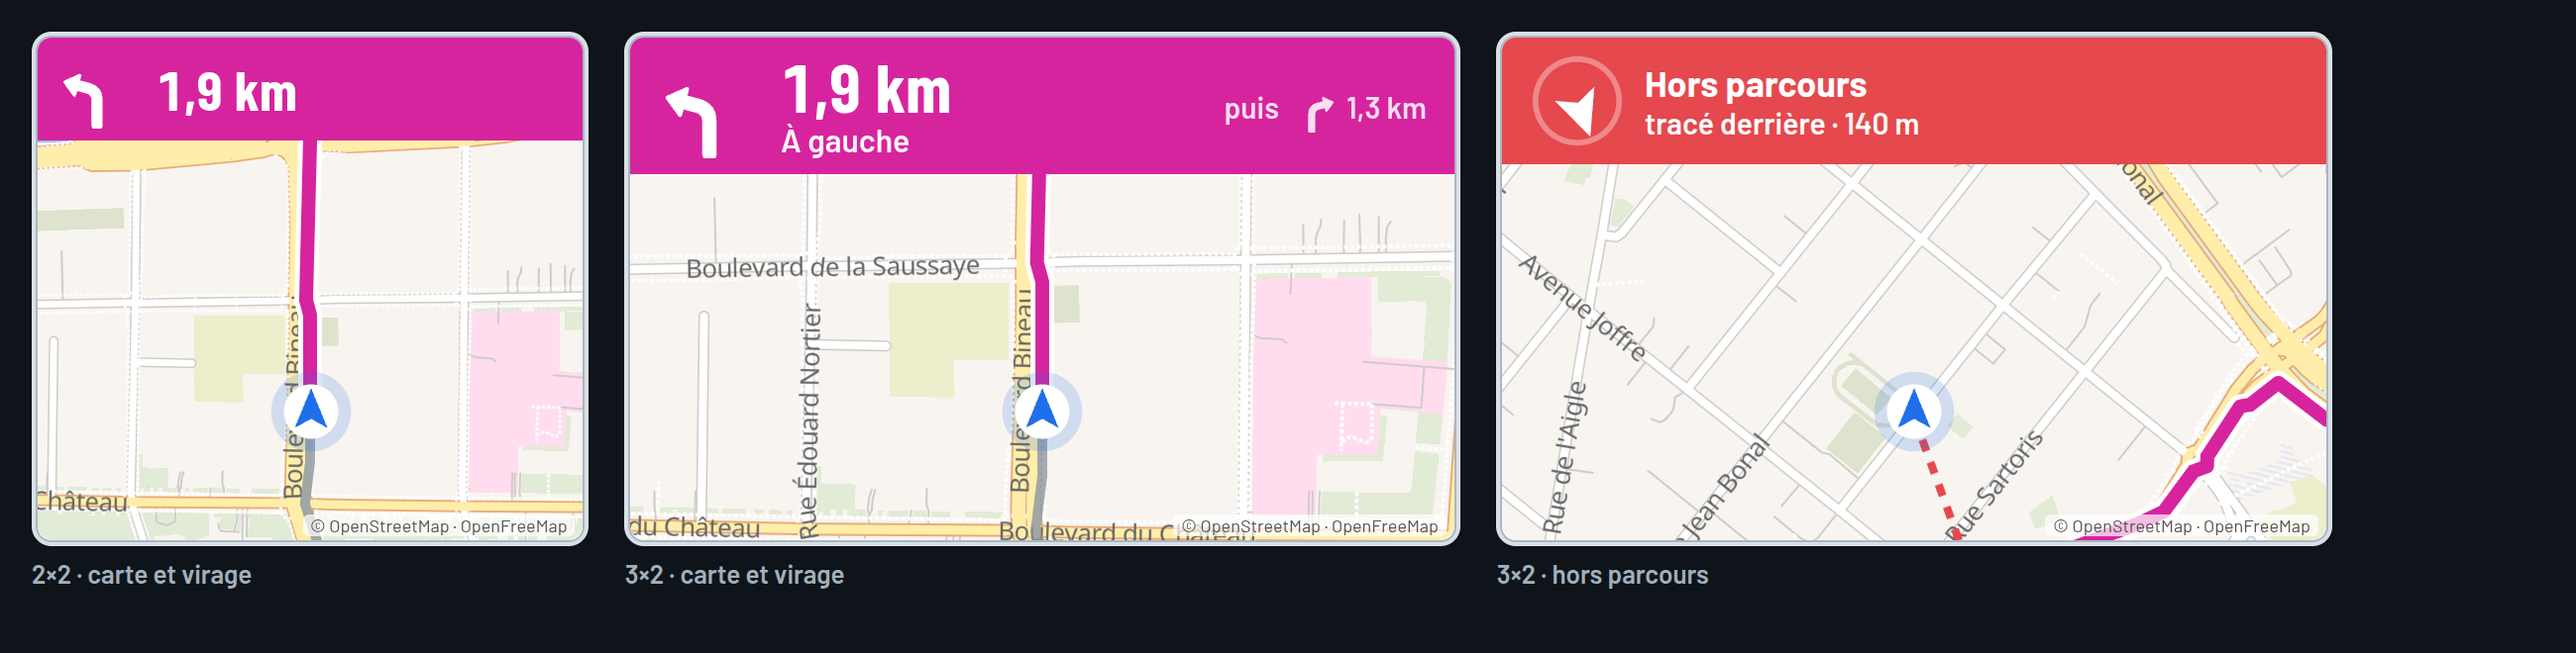
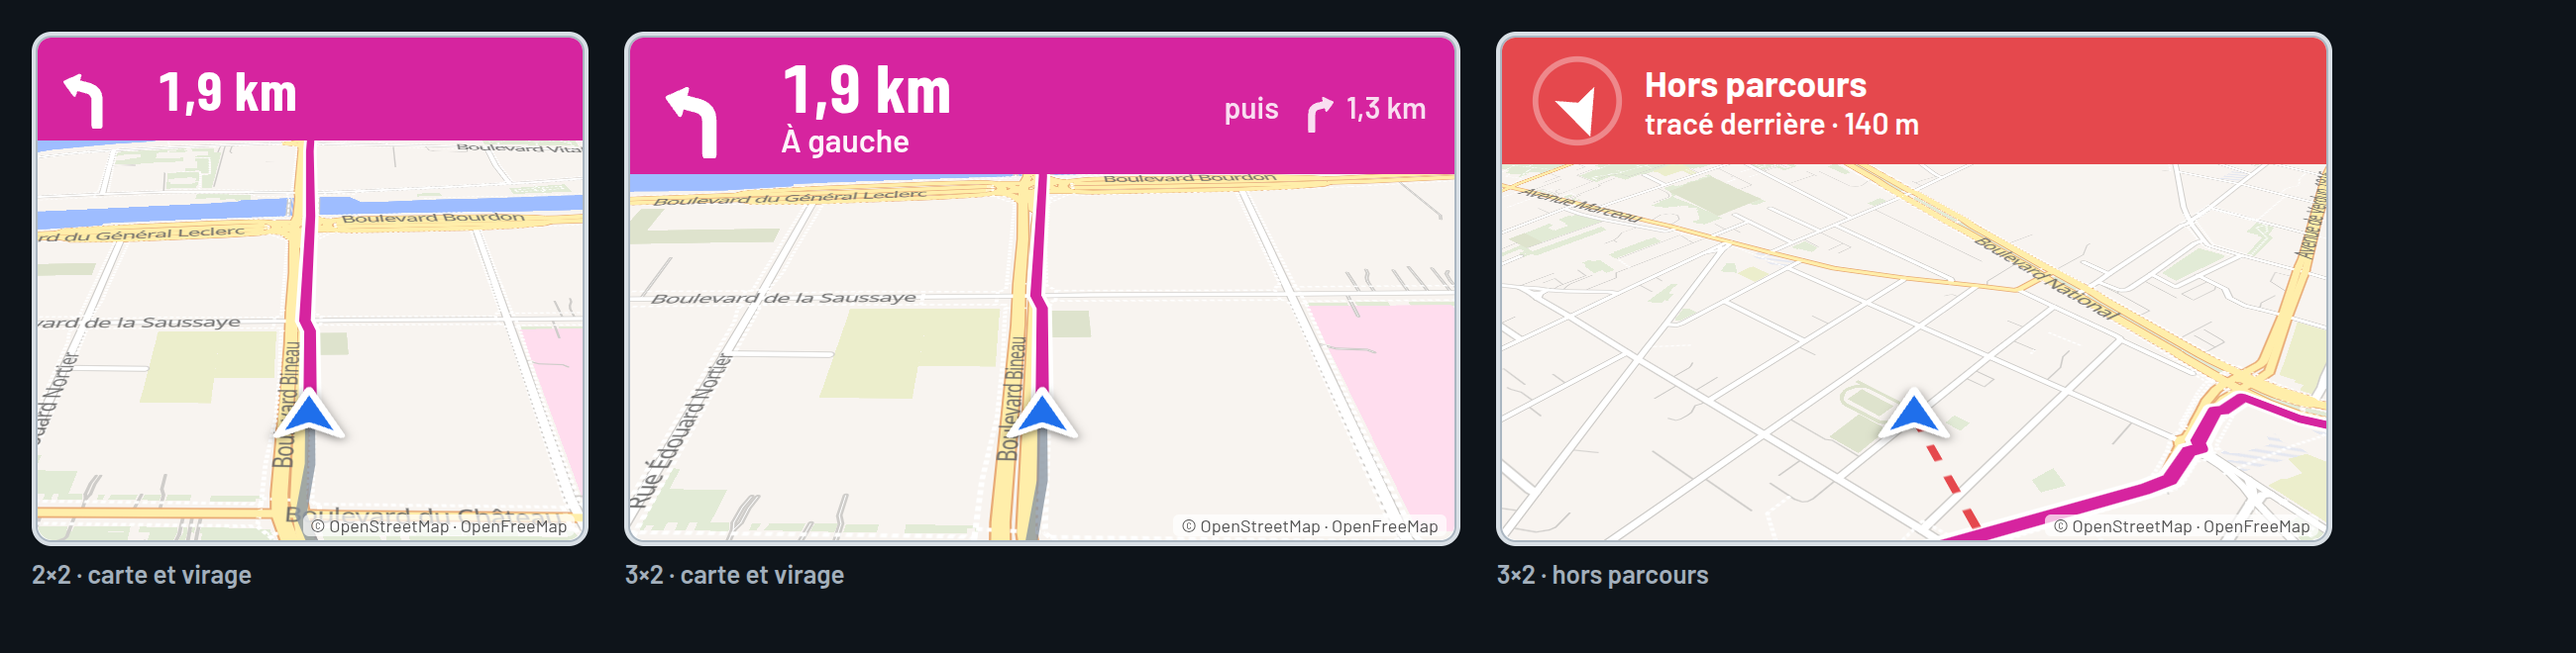
Navigation (prototype) : perspective, mini carte dans les petites tailles, trois icônes de position
Claude-Session: https://claude.ai/code/session_01N9VnUnmKgeeNg6EvTe4348

Changed region(s): [[0.0, 0.2121, 0.9035, 0.8485], [0.6542, 0.6061, 0.6854, 0.6364]]

diff --git a/src/dev/navproto.tsx b/src/dev/navproto.tsx
@@ -77,14 +77,26 @@ const line = (a: number, b: number) => {
 }
 
 /** Carte tournée dans le sens de marche, tracé magenta, position en bas de la carte. */
-function NavMap({ lat, lon, head, zoom = 16, pitch = 0, offLine, h }: { lat: number; lon: number; head: number; zoom?: number; pitch?: number; offLine?: [number, number][]; h: number }) {
+type Icon = 'chevron' | 'velo' | 'cone'
+const ICON = (q.get('icon') ?? 'chevron') as Icon
+/** Trois propositions pour te représenter sur la carte. */
+const iconSvg = (k: Icon, px: number) => ({
+  // Chevron de navigation (style GPS de voiture) : bleu plein, liseré blanc, ombre.
+  chevron: `<svg viewBox="0 0 48 48" width="${px}" height="${px}" style="filter:drop-shadow(0 2px 3px rgba(0,0,0,.45))"><path d="M24 4 L41 42 L24 33 L7 42 Z" fill="#1f6feb" stroke="#fff" stroke-width="4" stroke-linejoin="round"/></svg>`,
+  // Pastille vélo : rond bleu, pictogramme vélo blanc, petit cap devant.
+  velo: `<svg viewBox="0 0 48 48" width="${px}" height="${px}" style="filter:drop-shadow(0 2px 3px rgba(0,0,0,.45))"><path d="M24 1 L30 9 L18 9 Z" fill="#1f6feb"/><circle cx="24" cy="27" r="18" fill="#1f6feb" stroke="#fff" stroke-width="3.5"/><g fill="none" stroke="#fff" stroke-width="2.4" stroke-linecap="round" stroke-linejoin="round"><circle cx="16.5" cy="31" r="5"/><circle cx="31.5" cy="31" r="5"/><path d="M16.5 31 L21 23 L28 23 L31.5 31 M21 23 L24 31 L28 23 M19.5 20.5 H23 M28 23 L27 19.5 H30"/></g></svg>`,
+  // Point et cône de vision (style plan de téléphone).
+  cone: `<svg viewBox="0 0 48 48" width="${px}" height="${px}"><defs><linearGradient id="cg" x1="0" y1="1" x2="0" y2="0"><stop offset="0" stop-color="#1f6feb" stop-opacity=".55"/><stop offset="1" stop-color="#1f6feb" stop-opacity="0"/></linearGradient></defs><path d="M24 26 L8 2 Q24 -4 40 2 Z" fill="url(#cg)"/><circle cx="24" cy="26" r="10" fill="#1f6feb" stroke="#fff" stroke-width="4"/></svg>`,
+})[k]
+
+function NavMap({ lat, lon, head, zoom = 16, pitch = 0, offLine, h, icon = ICON, small, padLeft = 0 }: { lat: number; lon: number; head: number; zoom?: number; pitch?: number; offLine?: [number, number][]; h: number; icon?: Icon; small?: boolean; padLeft?: number }) {
   const el = useRef<HTMLDivElement>(null)
   useEffect(() => {
     const map = new maplibregl.Map({
       container: el.current!, style: `https://tiles.openfreemap.org/styles/${night ? 'dark' : 'liberty'}`, center: [lon, lat], zoom, bearing: head, pitch,
       interactive: false, attributionControl: false, canvasContextAttributes: { preserveDrawingBuffer: true },
     })
-    map.setPadding({ top: h * 0.5, bottom: 0, left: 0, right: 0 })
+    map.setPadding({ top: h * (small ? 0.35 : 0.5), bottom: 0, left: padLeft, right: 0 })
     map.on('load', () => {
       // Carte calme : routes, eau, verdure et noms de rues ; ni commerces, ni arrêts de bus, ni bâtiments, ni numéros de route.
       for (const l of map.getStyle().layers) {
@@ -102,15 +114,15 @@ function NavMap({ lat, lon, head, zoom = 16, pitch = 0, offLine, h }: { lat: num
         map.addLayer({ id: 'back', type: 'line', source: 'back', paint: { 'line-color': '#e5484d', 'line-width': 4, 'line-dasharray': [1.5, 1.5] } })
       }
       const m = document.createElement('div')
-      m.innerHTML = `<svg viewBox="0 0 48 48" width="44" height="44"><circle cx="24" cy="24" r="22" fill="#1f6feb" fill-opacity=".18"/><circle cx="24" cy="24" r="15" fill="#fff"/><path d="M24 11 L33 33 L24 28 L15 33 Z" fill="#1f6feb"/></svg>`
+      m.innerHTML = iconSvg(icon, small ? 30 : 46)
       new maplibregl.Marker({ element: m, rotation: head, rotationAlignment: 'map', pitchAlignment: 'map' }).setLngLat([lon, lat]).addTo(map)
     })
     return () => map.remove()
-  }, [lat, lon, head, zoom, pitch, offLine, h])
+  }, [lat, lon, head, zoom, pitch, offLine, h, icon, small, padLeft])
   return (
     <>
       <div ref={el} style={{ position: 'absolute', inset: 0, borderRadius: 8, overflow: 'hidden' }} />
-      <span style={{ position: 'absolute', right: 4, bottom: 2, font: '500 9px Barlow', color: '#555', background: 'rgba(255,255,255,.7)', padding: '0 4px', borderRadius: 3 }}>© OpenStreetMap · OpenFreeMap</span>
+      {!small && <span style={{ position: 'absolute', right: 4, bottom: 2, font: '500 9px Barlow', color: '#555', background: 'rgba(255,255,255,.7)', padding: '0 4px', borderRadius: 3 }}>© OpenStreetMap · OpenFreeMap</span>}
     </>
   )
 }
@@ -128,30 +140,54 @@ function Box({ w, h, children, label }: { w: number; h: number; children: ReactN
   )
 }
 
-const lab: CSSProperties = { font: '600 15px Barlow', color: 'var(--d-mut)' }
 const big = (px: number): CSSProperties => ({ fontFamily: 'var(--num)', fontWeight: 700, fontSize: px, lineHeight: 1, color: 'var(--d-ink)' })
 
+/** Mini fond de carte des petites tailles : vue de dessus, zoom serré, sans noms ; le texte passe sur une plaque. */
+const Mini = ({ offMode, h, padLeft = 0 }: { offMode?: boolean; h: number; padLeft?: number }) => {
+  const o = trackAt(t, off.dist)
+  return offMode
+    ? <NavMap lat={offLat} lon={offLon} head={offHeading} zoom={15.6} h={h} small padLeft={padLeft} offLine={[[offLon, offLat], [o.lon, o.lat]]} />
+    : <NavMap lat={here.lat} lon={here.lon} head={heading} zoom={15.6} h={h} small padLeft={padLeft} />
+}
+const plate = (red?: boolean): CSSProperties => ({ background: red ? 'rgba(229,72,77,.94)' : 'rgba(214,36,159,.94)', color: '#fff', borderRadius: 10, boxShadow: '0 2px 6px rgba(0,0,0,.25)' })
+
 function Turn1x1() {
-  return <div style={{ position: 'absolute', inset: 0, display: 'grid', placeItems: 'center', alignContent: 'center', gap: 2, color: NAV }}><TurnArrow turn={t1} size={70} /><div style={big(30)}>{fm(t1!.d - POS)}</div></div>
+  return (
+    <>
+      <Mini h={CELL_H} />
+      <div style={{ ...plate(), position: 'absolute', left: 6, right: 6, top: 6, display: 'flex', alignItems: 'center', justifyContent: 'center', gap: 2, padding: '2px 4px' }}><TurnArrow turn={t1} size={34} color="#fff" /><span style={{ ...big(24), color: '#fff' }}>{fm(t1!.d - POS)}</span></div>
+    </>
+  )
 }
 function Turn2x1() {
   return (
-    <div style={{ position: 'absolute', inset: 0, display: 'flex', alignItems: 'center', gap: 10, padding: '0 12px', color: NAV }}>
-      <TurnArrow turn={t1} size={86} />
-      <div><div style={big(44)}>{fm(t1!.d - POS)}</div><div style={{ ...lab, color: 'var(--d-ink)', fontSize: 17 }}>{turnWord(t1!)}</div>{t2 && <div style={lab}>puis {turnWord(t2).toLowerCase()} · {fm(t2.d - t1!.d)}</div>}</div>
-    </div>
+    <>
+      <Mini h={CELL_H} padLeft={CELL_W * 1.2} />
+      <div style={{ ...plate(), position: 'absolute', left: 6, top: 6, bottom: 6, width: '58%', whiteSpace: 'nowrap', display: 'flex', alignItems: 'center', gap: 6, padding: '0 8px' }}>
+        <TurnArrow turn={t1} size={46} color="#fff" />
+        <div><div style={{ ...big(28), color: '#fff' }}>{fm(t1!.d - POS)}</div><div style={{ font: '600 14px Barlow' }}>{turnWord(t1!)}</div>{t2 && <div style={{ font: '600 12px Barlow', opacity: 0.85 }}>puis {fm(t2.d - t1!.d)}</div>}</div>
+      </div>
+    </>
   )
 }
 function Off2x1() {
   return (
-    <div style={{ position: 'absolute', inset: 0, display: 'flex', alignItems: 'center', gap: 10, padding: '0 12px', color: '#e5484d', background: 'color-mix(in srgb, #e5484d 12%, transparent)' }}>
-      <OffArrow rel={off.rel} size={80} />
-      <div><div style={{ font: '700 19px Barlow', color: '#e5484d' }}>Hors parcours</div><div style={big(36)}>{fm(off.off)}</div><div style={{ ...lab, color: 'var(--d-ink)', fontSize: 17 }}>tracé {off.side}</div></div>
-    </div>
+    <>
+      <Mini offMode h={CELL_H} padLeft={CELL_W * 1.2} />
+      <div style={{ ...plate(true), position: 'absolute', left: 6, top: 6, bottom: 6, width: '58%', whiteSpace: 'nowrap', display: 'flex', alignItems: 'center', gap: 6, padding: '0 8px' }}>
+        <OffArrow rel={off.rel} size={42} />
+        <div><div style={{ font: '700 14px Barlow' }}>Hors parcours</div><div style={{ ...big(26), color: '#fff' }}>{fm(off.off)}</div><div style={{ font: '600 13px Barlow' }}>tracé {off.side}</div></div>
+      </div>
+    </>
   )
 }
 function Off1x1() {
-  return <div style={{ position: 'absolute', inset: 0, display: 'grid', placeItems: 'center', alignContent: 'center', gap: 2, color: '#e5484d', background: 'color-mix(in srgb, #e5484d 12%, transparent)' }}><OffArrow rel={off.rel} size={62} /><div style={big(26)}>{fm(off.off)}</div></div>
+  return (
+    <>
+      <Mini offMode h={CELL_H} />
+      <div style={{ ...plate(true), position: 'absolute', left: 6, right: 6, top: 6, display: 'flex', alignItems: 'center', justifyContent: 'center', gap: 4, padding: '2px 4px' }}><OffArrow rel={off.rel} size={30} /><span style={{ ...big(22), color: '#fff' }}>{fm(off.off)}</span></div>
+    </>
+  )
 }
 /** Bandeau de virage, collé en haut de la carte : flèche, distance, consigne ; le virage suivant à droite en grand. */
 const TurnBand = ({ compact }: { compact?: boolean }) => (
@@ -171,13 +207,13 @@ const OffBand = ({ compact }: { compact?: boolean }) => (
   </div>
 )
 
-function MapWidget({ w, h, pitch = 0, offMode }: { w: number; h: number; pitch?: number; offMode?: boolean }) {
+function MapWidget({ w, h, pitch = 50, offMode }: { w: number; h: number; pitch?: number; offMode?: boolean }) {
   const pxH = h * CELL_H, o = offMode ? trackAt(t, off.dist) : null
   return (
     <>
       {offMode
-        ? <NavMap lat={offLat} lon={offLon} head={offHeading} zoom={15} h={pxH} offLine={[[offLon, offLat], [o!.lon, o!.lat]]} />
-        : <NavMap lat={here.lat} lon={here.lon} head={heading} zoom={w * h >= 6 ? 15 : 14.6} pitch={pitch} h={pxH} />}
+        ? <NavMap lat={offLat} lon={offLon} head={offHeading} zoom={14.9} pitch={pitch} h={pxH} offLine={[[offLon, offLat], [o!.lon, o!.lat]]} />
+        : <NavMap lat={here.lat} lon={here.lon} head={heading} zoom={w * h >= 6 ? 15.6 : 15.2} pitch={pitch} h={pxH} />}
       {offMode ? <OffBand compact={w * h <= 4} /> : <TurnBand compact={w * h <= 4} />}
     </>
   )
@@ -204,7 +240,7 @@ function Cartes() {
 }
 
 /** Écran complet : la navigation à côté des widgets d'effort, comme dans l'appli. */
-function Ecran({ portrait, pitch }: { portrait?: boolean; pitch?: number }) {
+function Ecran({ portrait, pitch = 50 }: { portrait?: boolean; pitch?: number }) {
   const grid = portrait ? PORTRAIT : LANDSCAPE, d = previewData()
   const items: WidgetItem[] = portrait
     ? [{ id: 'a', k: 'effort', x: 0, y: 3, w: 2, h: 2 }, { id: 'b', k: 'hr', x: 2, y: 3, w: 1, h: 1 }, { id: 'c', k: 'speed', x: 2, y: 4, w: 1, h: 1 }, { id: 'd', k: 'dist', x: 0, y: 5, w: 2, h: 1 }, { id: 'e', k: 'clock', x: 2, y: 5, w: 1, h: 1 }]
@@ -224,7 +260,15 @@ function Ecran({ portrait, pitch }: { portrait?: boolean; pitch?: number }) {
   )
 }
 
+function Icones() {
+  const one = (k: Icon, l: string) => (
+    <Box w={2} h={2} label={l}><NavMap lat={here.lat} lon={here.lon} head={heading} zoom={15.8} pitch={50} h={2 * CELL_H} icon={k} /></Box>
+  )
+  return <div style={{ padding: 16, display: 'flex', gap: 18 }}>{one('chevron', 'A · chevron de navigation')}{one('velo', 'B · pastille vélo')}{one('cone', 'C · point et cône')}</div>
+}
+
 const V: Record<string, () => ReactNode> = {
+  icones: () => <Icones />,
   petits: () => <Petits />, cartes: () => <Cartes />,
   ecran: () => <Ecran />, ecran3d: () => <Ecran pitch={50} />, portrait: () => <Ecran portrait />,
 }

diff --git a/docs/ETUDE-NAVIGATION.md b/docs/ETUDE-NAVIGATION.md
@@ -38,9 +38,15 @@ Couleurs : magenta pour la navigation (ne se confond ni avec les zones, ni avec 
 - **Virages et hors parcours** : `src/route/turns.ts` (pur, testé) — virages lus sur le tracé fin, secteur du tracé par rapport à ta direction. Réutilisable tel quel sur le boîtier.
 - **Boîtier** : écran couleur (déjà l'orientation de la conversation hardware : TFT VIEWE) ; carte du couloir convertie dans un format compact sur microSD, comme les projets ESP32 cités. À ajouter à `docs/FORMAT-PAQUET.md` le moment venu.
 
+## Décisions (22 oct.)
+
+- Carte **en perspective** (vue inclinée, ~50°) pour les grandes tailles.
+- Petites tailles **avec un mini fond de carte** : vue de dessus, zoom serré, sans attribution visible ; la consigne passe sur une plaque magenta (ou rouge hors parcours), ta position décalée à côté de la plaque.
+- Icône de position : trois propositions (`icones.png`) — A chevron de navigation, B pastille vélo, C point et cône. À choisir.
+
 ## À trancher
 
-1. Carte vue de dessus ou en perspective (3D inclinée) ?
+1. Icône de position : A, B ou C ?
 2. Couleur de la navigation : magenta (proposé) ou autre ?
 3. Annonce sonore et vibration avant un virage (et à quelle distance : 200 m ? 100 m ?) ?
 4. Hors ligne dès le premier lot, ou d'abord en ligne pour tester sur le vélo ?
